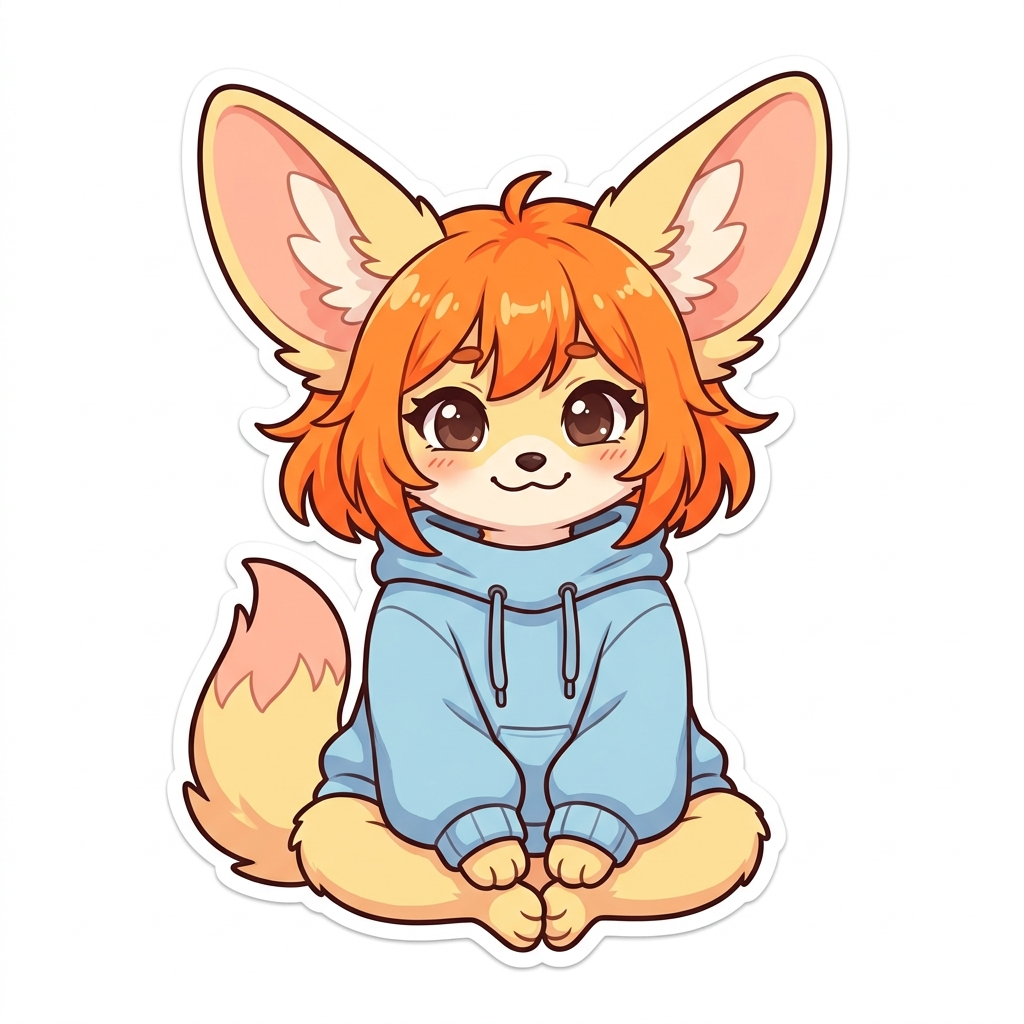
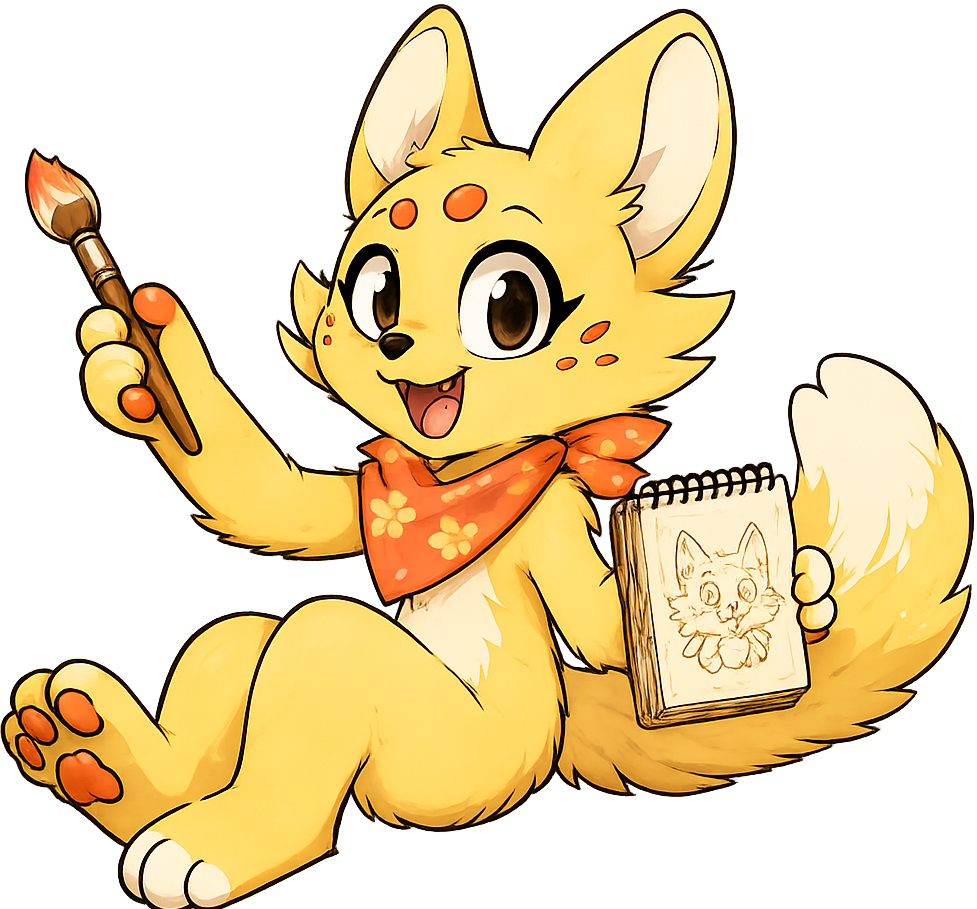
style: increase hero character size and fine-tune container dimensions

diff --git a/src/components/Hero.tsx b/src/components/Hero.tsx
@@ -120,10 +120,11 @@ export default function Hero() {
         <defs>
           {/* Sketchy hand-drawn wiggle filter (2-frame cozy wiggle) */}
           <filter id="sketchy-alive-filter" x="-10%" y="-10%" width="120%" height="120%">
-            <feTurbulence type="fractalNoise" baseFrequency="0.04" numOctaves="3" result="noise">
-              <animate attributeName="seed" dur="0.6s" values="1;2" calcMode="discrete" repeatCount="indefinite" />
+            <feTurbulence type="fractalNoise" numOctaves="3" result="noise">
+              <animate attributeName="seed" dur="0.35s" values="1;2" calcMode="discrete" repeatCount="indefinite" />
+              <animate attributeName="baseFrequency" dur="0.35s" values="0.038;0.042" calcMode="discrete" repeatCount="indefinite" />
             </feTurbulence>
-            <feDisplacementMap in="SourceGraphic" in2="noise" scale="3.5" xChannelSelector="R" yChannelSelector="G" />
+            <feDisplacementMap in="SourceGraphic" in2="noise" scale="3.2" xChannelSelector="R" yChannelSelector="G" />
           </filter>
 
           {/* Melty gooey slime/liquid dripping filter */}
@@ -365,8 +366,8 @@ export default function Hero() {
               Welcome to
             </span>
             
-            {/* Citrini's Den heading wrapper */}
-            <div className="relative mt-1 block select-none pb-4">
+            {/* Citrini's Den heading wrapper with synchronized 2-frame shifts */}
+            <div className="relative mt-1 block select-none pb-4 animate-cartoon-boil-2frame">
               {/* Text block grouped together with the 2-frame hand-drawn wiggle filter */}
               <div style={{ filter: "url(#sketchy-alive-filter)" }}>
                 {/* Thick dark stroke outline underneath */}
@@ -384,14 +385,6 @@ export default function Hero() {
                   {siteConfig.name}'s Den
                 </span>
               </div>
-              
-              {/* Dripping/Melty cartoon emojis */}
-              <span className="absolute -right-8 -top-3 text-2xl sm:text-3xl animate-bounce pointer-events-none select-none">
-                💦
-              </span>
-              <span className="absolute -left-6 bottom-2 text-xl sm:text-2xl animate-pulse pointer-events-none select-none">
-                🍯
-              </span>
             </div>
           </motion.h1>
  
@@ -432,13 +425,13 @@ export default function Hero() {
         </div>
  
         {/* Right Mascot (Follows Cursor & Reacts dynamically) */}
-        <div className="lg:col-span-6 flex justify-center items-center relative min-h-[320px] sm:min-h-[400px] md:min-h-[460px] lg:min-h-[480px]">
+        <div className="lg:col-span-6 flex justify-center items-center relative min-h-[350px] sm:min-h-[450px] md:min-h-[500px] lg:min-h-[550px]">
  
           <motion.div
             initial={{ opacity: 0, scale: 0.95 }}
             animate={{ opacity: 1, scale: 1 }}
             transition={{ duration: 0.6 }}
-            className="relative w-full max-w-[460px] aspect-square flex justify-center items-center cursor-pointer select-none group z-10"
+            className="relative w-full max-w-[520px] aspect-square flex justify-center items-center cursor-pointer select-none group z-10"
             onClick={handleMascotClick}
           >
             {/* Mascot Image (looks at & tilts towards user's cursor dynamically!) */}
@@ -487,8 +480,8 @@ export default function Hero() {
                 <Image
                   src={siteConfig.mascot.imageUrl}
                   alt={siteConfig.mascot.name}
-                  width={450}
-                  height={450}
+                  width={520}
+                  height={520}
                   className="object-contain max-h-[95%] drop-shadow-[8px_12px_0px_rgba(251,146,60,0.15)] group-hover:scale-102 transition-transform duration-300"
                   priority
                 />

diff --git a/src/app/globals.css b/src/app/globals.css
@@ -164,6 +164,21 @@ body.modal-open #gallery {
   animation: cartoonWobble 3s ease-in-out infinite;
 }
 
+/* Authentic 2-frame flipbook cartoon boil (slightly offsets position/rotation in sync with the SVG filter) */
+@keyframes cartoonBoil2Frame {
+  0%, 100% {
+    transform: translate(0px, 0px) rotate(0deg);
+  }
+  50% {
+    transform: translate(0.5px, -0.5px) rotate(-0.3deg);
+  }
+}
+
+.animate-cartoon-boil-2frame {
+  animation: cartoonBoil2Frame 0.35s steps(1) infinite;
+}
+
+
 
 
 